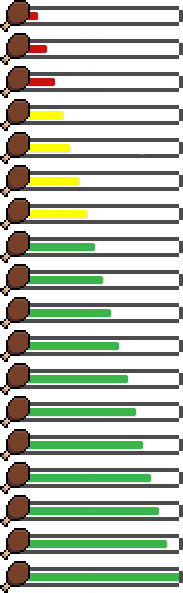
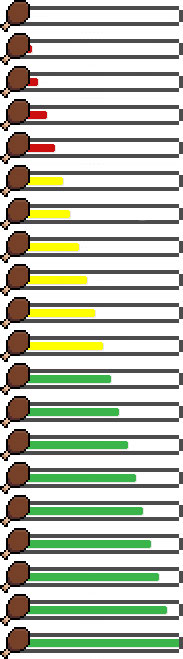
Getter for hunger background iamge position

diff --git a/src/dino.js b/src/dino.js
@@ -11,9 +11,16 @@ class Dino {
 
     play(){
         this.happiness += 5
+        
     }
     feed(){
         this.hunger += 5
+        console.log(this.hungerMeterYPosition)
+    }
+    get hungerMeterYPosition(){
+        let hungerMeter = document.getElementById("hunger")
+        let hungerMeterStyle = window.getComputedStyle(hungerMeter)
+        return hungerMeterStyle.getPropertyValue("background-position-y")
     }
     createDinoDiv(){
         return `

diff --git a/style.css b/style.css
@@ -7,6 +7,7 @@ div#hunger{
     width: 183px;
     background-image: url(images/hunger_meter.jpg);
     height: 32px;
+    background-position: 0px 659px;
 }
 #dino-egg{
     max-width:80%;
